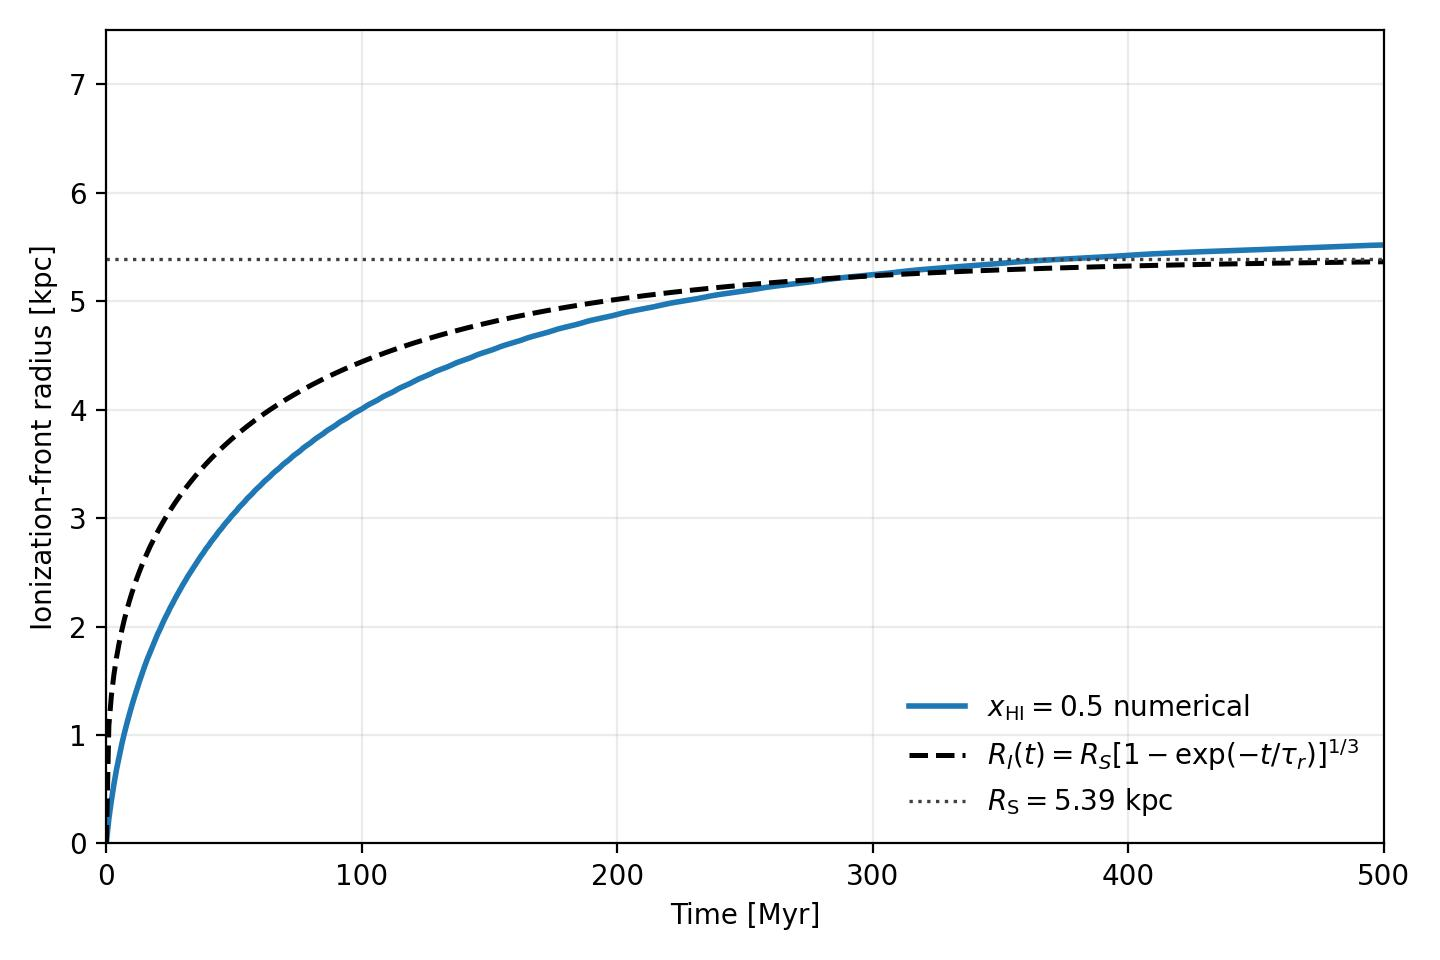
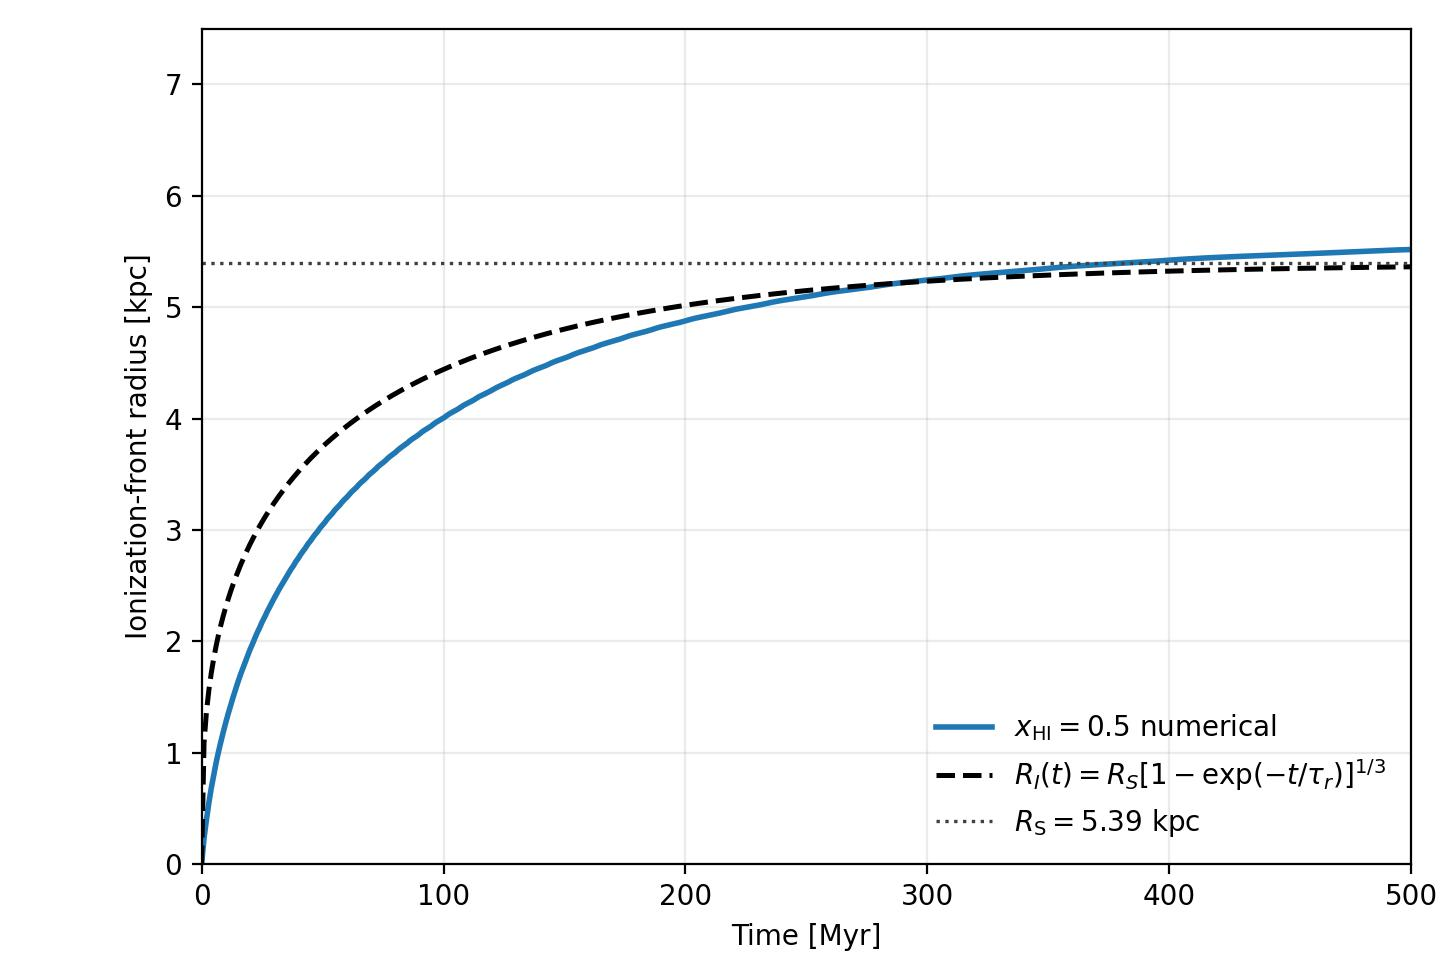
add photon conservation test

diff --git a/example/StaticStromgrenSphere1D/tools.py b/example/StaticStromgrenSphere1D/tools.py
@@ -101,22 +101,84 @@ def ionization_front_position(mesh, fluid, par, neutral_fraction=0.5):
     return radius[left] + weight * (radius[right] - radius[left])
 
 
-def append_front_history(history, mesh, fluid, par):
+def ionized_hydrogen_atoms(mesh, fluid, par):
+    interior = interior_slice(par)
+    nH = rh.hydrogen_number_density(
+        fluid.rho[interior],
+        par.hydrogen_mass_fraction,
+    )
+    ionized_fraction = 1.0 - np.asarray(fluid.xHI[interior])
+    ionized_atoms = np.sum(ionized_fraction * nH * mesh.vol[interior])
+    return ionized_atoms.to_value('')
+
+
+def photons_in_volume(mesh, fluid, par):
+    interior = interior_slice(par)
+    photon_count = np.sum(fluid.ngamma[interior] * mesh.vol[interior])
+    return photon_count.to_value('')
+
+
+def total_recombination_rate(mesh, fluid, par):
+    interior = interior_slice(par)
+    nH = rh.hydrogen_number_density(
+        fluid.rho[interior],
+        par.hydrogen_mass_fraction,
+    )
+    ionized_fraction = 1.0 - np.asarray(fluid.xHI[interior])
+    rate = np.sum(
+        par.hydrogen_alpha_B
+        * ionized_fraction**2
+        * nH**2
+        * mesh.vol[interior]
+    )
+    return rate.to(1.0 / unyt.s)
+
+
+def append_history(history, mesh, fluid, par, config, recombined_photons):
     history['time_Myr'].append(fluid.time.to_value(unyt.Myr))
     history['front_radius_kpc'].append(
         ionization_front_position(mesh, fluid, par).to_value(unyt.kpc)
     )
+    history['injected_photons'].append(
+        (config['source_photon_rate'] * fluid.time).to_value('')
+    )
+    history['ionized_atoms'].append(ionized_hydrogen_atoms(mesh, fluid, par))
+    history['recombined_photons'].append(recombined_photons)
+    history['volume_photons'].append(photons_in_volume(mesh, fluid, par))
+    history['accounted_photons'].append(
+        history['ionized_atoms'][-1]
+        + history['recombined_photons'][-1]
+        + history['volume_photons'][-1]
+    )
 
 
-def evolve_static_chemistry(mesh, fluid, par, solver, final_time, chemistry_timestep):
+def evolve_static_chemistry(
+    mesh,
+    fluid,
+    par,
+    solver,
+    config,
+    final_time,
+    chemistry_timestep,
+):
     interior = interior_slice(par)
     elapsed = 0.0 * unyt.Myr
-    history = {'time_Myr': [], 'front_radius_kpc': []}
-    append_front_history(history, mesh, fluid, par)
+    recombined_photons = 0.0
+    history = {
+        'time_Myr': [],
+        'front_radius_kpc': [],
+        'injected_photons': [],
+        'ionized_atoms': [],
+        'recombined_photons': [],
+        'volume_photons': [],
+        'accounted_photons': [],
+    }
+    append_history(history, mesh, fluid, par, config, recombined_photons)
     while elapsed < final_time:
         dt = min(chemistry_timestep, final_time - elapsed)
         solver.SetBoundary(mesh, fluid, par)
         solver.ApplyRadiativeTransfer(mesh, fluid, par)
+        recombination_rate_start = total_recombination_rate(mesh, fluid, par)
         fluid.xHI[interior] = rh.hydrogen_neutral_fraction_implicit_update(
             fluid.rho[interior],
             fluid.temp[interior],
@@ -130,9 +192,17 @@ def evolve_static_chemistry(mesh, fluid, par, solver, final_time, chemistry_time
             recombination_coefficient=par.hydrogen_alpha_B,
             ionization_coefficient=par.hydrogen_beta,
         )
+        recombination_rate_end = total_recombination_rate(mesh, fluid, par)
+        recombined_photons += (
+            0.5
+            * (recombination_rate_start + recombination_rate_end)
+            * dt
+        ).to_value('')
         elapsed += dt
         fluid.time = elapsed
-        append_front_history(history, mesh, fluid, par)
+        solver.SetBoundary(mesh, fluid, par)
+        solver.ApplyRadiativeTransfer(mesh, fluid, par)
+        append_history(history, mesh, fluid, par, config, recombined_photons)
     solver.SetBoundary(mesh, fluid, par)
     solver.ApplyRadiativeTransfer(mesh, fluid, par)
     return history
@@ -255,6 +325,96 @@ def save_front_history_plot(history, config, figure_filename):
     ax.set_ylim(0.0, plot_radius_max)
     ax.grid(True, alpha=0.25)
     ax.legend(frameon=False, loc='lower right')
-    fig.tight_layout()
+    fig.subplots_adjust(left=0.14, right=0.98, bottom=0.10, top=0.97, hspace=0.08)
     fig.savefig(figure_filename, dpi=200)
     plt.close(fig)
+
+
+def save_photon_budget_plot(history, figure_filename):
+    time_Myr = np.asarray(history['time_Myr'])
+    injected = np.asarray(history['injected_photons'])
+    ionized = np.asarray(history['ionized_atoms'])
+    recombined = np.asarray(history['recombined_photons'])
+    volume_photons = np.asarray(history['volume_photons'])
+    accounted = np.asarray(history['accounted_photons'])
+    residual = np.zeros_like(injected)
+    valid = injected > 0.0
+    residual[valid] = (accounted[valid] - injected[valid]) / injected[valid]
+
+    fig, (ax_budget, ax_residual) = plt.subplots(
+        2,
+        1,
+        figsize=(7.2, 6.0),
+        sharex=True,
+        gridspec_kw={'height_ratios': [2.0, 1.0], 'hspace': 0.08},
+    )
+    ax_budget.plot(
+        time_Myr,
+        injected,
+        color='black',
+        lw=2.0,
+        label=r'injected photons, $\dot{N}_\gamma t$',
+    )
+    ax_budget.plot(
+        time_Myr,
+        accounted,
+        color='tab:blue',
+        lw=1.8,
+        ls='--',
+        label=r'$N_{\rm HII}+N_{\rm rec}+N_{\gamma,\rm vol}$',
+    )
+    ax_budget.plot(
+        time_Myr,
+        ionized,
+        color='tab:red',
+        lw=1.2,
+        ls=':',
+        label=r'$N_{\rm HII}$',
+    )
+    ax_budget.plot(
+        time_Myr,
+        recombined,
+        color='tab:green',
+        lw=1.2,
+        ls='-.',
+        label=r'$N_{\rm rec}$',
+    )
+    ax_budget.plot(
+        time_Myr,
+        volume_photons,
+        color='tab:orange',
+        lw=1.2,
+        ls=(0, (3, 1, 1, 1)),
+        label=r'$N_{\gamma,\rm vol}$',
+    )
+    ax_residual.axhline(0.0, color='black', lw=1.0)
+    ax_residual.plot(
+        time_Myr,
+        residual,
+        color='tab:purple',
+        lw=1.8,
+        label=(
+            r'$(N_{\rm HII}+N_{\rm rec}+N_{\gamma,\rm vol}'
+            r'-\dot{N}_\gamma t)/\dot{N}_\gamma t$'
+        ),
+    )
+
+    ax_budget.set_ylabel('Photon count')
+    ax_residual.set_xlabel('Time [Myr]')
+    ax_residual.set_ylabel('Relative error')
+    ax_budget.set_yscale('log')
+    ax_budget.grid(True, which='both', alpha=0.25)
+    ax_residual.grid(True, alpha=0.25)
+    ax_budget.legend(frameon=False, loc='lower right')
+    ax_residual.legend(frameon=False, loc='best')
+    fig.subplots_adjust(left=0.14, right=0.98, bottom=0.10, top=0.97, hspace=0.08)
+    fig.savefig(figure_filename, dpi=200)
+    plt.close(fig)
+    return {
+        'injected_photons': injected[-1],
+        'accounted_photons': accounted[-1],
+        'ionized_atoms': ionized[-1],
+        'recombined_photons': recombined[-1],
+        'volume_photons': volume_photons[-1],
+        'relative_error': residual[-1],
+    }

diff --git a/example/StaticStromgrenSphere1D/static_stromgren_sphere1d.py b/example/StaticStromgrenSphere1D/static_stromgren_sphere1d.py
@@ -31,6 +31,10 @@ import tools as et
 rundir = os.path.dirname(os.path.abspath(__file__))
 figure_filename = os.path.join(rundir, 'StaticStromgrenSphere1D.jpg')
 front_figure_filename = os.path.join(rundir, 'StaticStromgrenSphere1D_IFront.jpg')
+budget_figure_filename = os.path.join(
+    rundir,
+    'StaticStromgrenSphere1D_PhotonBudget.jpg',
+)
 
 hydrogen_number_density = 1.0e-3 / unyt.cm**3
 alpha_B_coefficient = 2.59e-13 * unyt.cm**3 / unyt.s
@@ -61,11 +65,16 @@ def main():
         fluid,
         par,
         solver,
+        config,
         final_time,
         chemistry_timestep,
     )
     et.save_plot(mesh, fluid, par, config, figure_filename)
     et.save_front_history_plot(front_history, config, front_figure_filename)
+    photon_budget = et.save_photon_budget_plot(
+        front_history,
+        budget_figure_filename,
+    )
     print('time = %s' % fluid.time)
     print(
         'recombination time = %s'
@@ -88,8 +97,28 @@ def main():
             alpha_B_coefficient,
         ).to(unyt.kpc)
     )
+    print(
+        'injected photons = %.6e, accounted photons = %.6e'
+        % (
+            photon_budget['injected_photons'],
+            photon_budget['accounted_photons'],
+        )
+    )
+    print(
+        'ionized H = %.6e, recombinations = %.6e, photons in volume = %.6e'
+        % (
+            photon_budget['ionized_atoms'],
+            photon_budget['recombined_photons'],
+            photon_budget['volume_photons'],
+        )
+    )
+    print(
+        'photon budget relative error = %.6e'
+        % photon_budget['relative_error']
+    )
     print('figure = %s' % figure_filename)
     print('front figure = %s' % front_figure_filename)
+    print('photon budget figure = %s' % budget_figure_filename)
 
 
 if __name__ == '__main__':
